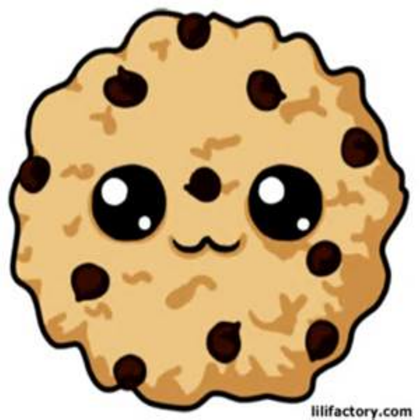
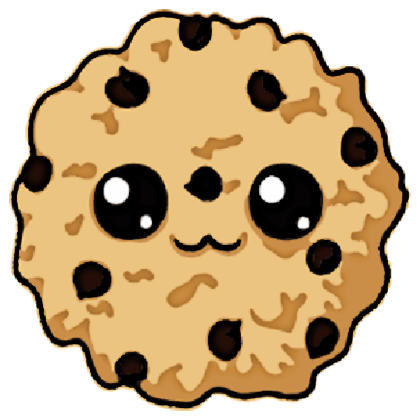
Exemple

diff --git a/index.html b/index.html
@@ -6,30 +6,32 @@
     <link rel="stylesheet" href="./style.css">
 </head>
 <body>
-    <header class="box">
-        <h1>Cookie /master</h1>
-        <p id="score">Votre argent apparaîtra ici</p>
-    </header>
-    <div id="cookie" class="box">
-        <a href="#cookie_clicker" id="cookie_clicker"><img id="iloveyou" alt="cookie" src="./cookie_gimp.png" /></a>
-        <h2>Cliquez sur le cookie !</h2>
-        <p id="multiplicator">Vos bonus apparaîtront ici</p>
-    </div>
-    <div id="shop" class="box">
-        <ul id="buy">
-           <li>
-                <button id="1" type="button" name="button" value="Pioche">Je veux acheter une pioche (Prix:<span id="piocheprix">10</span>)</button>
-           </li>
-            <li>
-                <button id="2" type="button" name="button"  value="Pelle">Je veux acheter une pelle (Prix:<span id="pelleprix">50</span>)</button>
-            </li>
-            <li>
-                <button id="3" type="button" name="button"  value="Foreuse">Je veux acheter une foreuse (Prix:<span id="foreuseprix">350</span>)</button>
-            </li>
-            <li>
-                <button id="4" type="button" name="button"  value="Pelleteuse">Je veux acheter une pelleteuse (Prix:<span id="pelletprix">500</span>)</button>
-            </li>
-        </ul>
+    <div id="all">
+        <header class="box">
+            <h1>Cookie /master</h1>
+            <p id="score">Votre argent apparaîtra ici</p>
+        </header>
+        <div id="cookie" class="box">
+            <a href="#cookie_clicker" id="cookie_clicker"><img id="iloveyou" alt="cookie" src="./cookie.png" /></a>
+            <h2>Cliquez sur le cookie !</h2>
+            <p id="multiplicator">Vos bonus apparaîtront ici</p>
+        </div>
+        <div id="shop" class="box">
+            <ul id="buy">
+               <li>
+                    <button id="1" type="button" name="button" value="Pioche">Acheter une brioche<br/>(Prix:<span id="piocheprix">10</span>)</button>
+               </li>
+                <li>
+                    <button id="2" type="button" name="button"  value="Pelle">Acheter un croissant<br/>(Prix:<span id="pelleprix">50</span>)</button>
+                </li>
+                <li>
+                    <button id="3" type="button" name="button"  value="Foreuse">Acheter un four<br/>(Prix:<span id="foreuseprix">350</span>)</button>
+                </li>
+                <li>
+                    <button id="4" type="button" name="button"  value="Pelleteuse">Acheter un lance-flamme<br/>(Prix:<span id="pelletprix">500</span>)</button>
+                </li>
+            </ul>
+        </div>
     </div>
 
     <script src="./app.js"></script>

diff --git a/style.css b/style.css
@@ -22,11 +22,13 @@ h1 {
     margin: 15px auto;
     color: black;
     box-shadow: 1px 1px 2px rgba(0,0,0,.5);
+    overflow: hidden;
 }
 #score, #multiplicator {
     background: rgba(255,255,255,.7); 
     font-size: 1.5em;
     padding: 10px;
+    margin: 0;
 }
 #cookie {
     padding: 20px 0;
@@ -42,7 +44,7 @@ h1 {
     border-radius: 50%;
 }
 #cookie_clicker:hover {
-    transform: rotate(60deg);
+    transform: scale(.9);
 }
 #iloveyou {
     display: block;
@@ -54,6 +56,7 @@ h1 {
 #shop ul {
     display: flex;
     flex-direction: row;
+    margin: 0;
     padding-left: 0;
     list-style: none;
 }
@@ -67,6 +70,5 @@ button span {
     font-style: italic;
 }
 button:hover {
-    background: black;
-    color: white;
+    cursor: pointer;
 }
